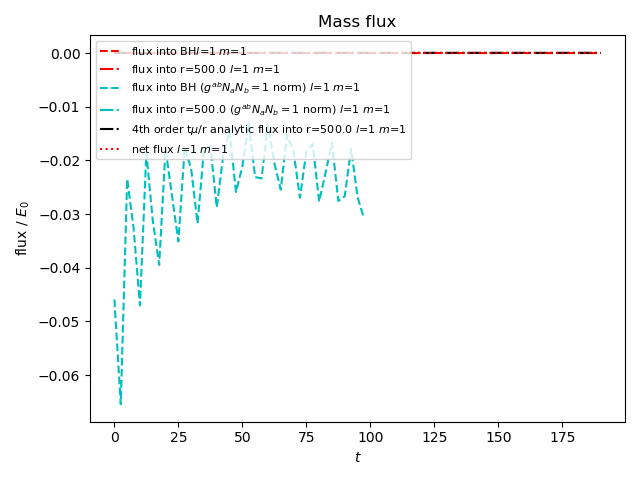
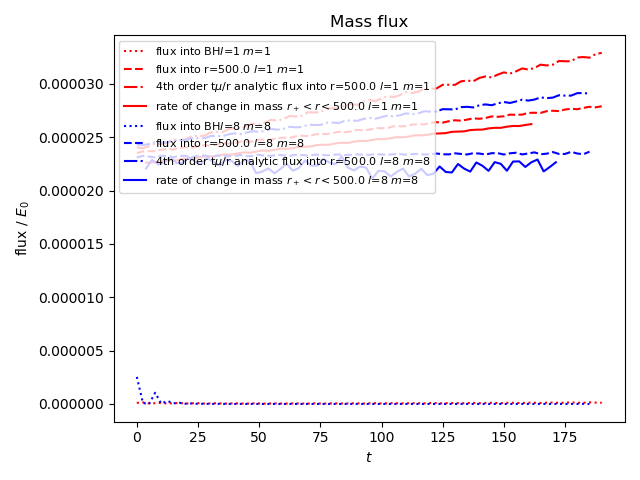
new plot

diff --git a/Analysis/scripts/plot_mass_flux_KS.py b/Analysis/scripts/plot_mass_flux_KS.py
@@ -41,7 +41,7 @@ cos2theta_integrals = [[-(1/3)],[1/5,-(3/5)],[1/21,-(1/7),-(5/7)],\
 def analytic_flux(t, r, l, m, a, mu, cumulative):	
 	## calculate the perturbative flux at large radius to order 
 	cos2theta = cos2theta_integrals[l][int(np.abs(m))]
-	L = l*(l+1)*(mu**2)
+	L = l*(l+1)/(mu**2)
 	tau = mu*t
 	""" #
 	Integrating factor of 
@@ -95,9 +95,9 @@ def time_average(x, n):
 #add_data_dir(104, 1, 1, "0.0", "0.4", 64, 64, "_theta_max0.99")
 add_data_dir(105, 1, 1, "0.7", "0.4", 64, 64, "_theta_max0.99")
 #add_data_dir(106, 1, 1, "0.99", "0.4", 64, 64, "_theta_max0.99")
-add_data_dir(107, 2, 2, "0.7", "0.4", 64, 64, "_theta_max0.99")
-add_data_dir(108, 4, 4, "0.7", "0.4", 64, 64, "_theta_max0.99")
-add_data_dir(109, 1, -1, "0.7", "0.4", 64, 64, "_theta_max0.99")
+#add_data_dir(107, 2, 2, "0.7", "0.4", 64, 64, "_theta_max0.99")
+#add_data_dir(108, 4, 4, "0.7", "0.4", 64, 64, "_theta_max0.99")
+#add_data_dir(109, 1, -1, "0.7", "0.4", 64, 64, "_theta_max0.99")
 add_data_dir(110, 8, 8, "0.7", "0.4", 64, 64, "_theta_max0.99")
 #add_data_dir(111, 0, 0, "0.0", "0.05", 64, 64, "_theta_max0.99")
 #add_data_dir(112, 1, 1, "0.7", "0.2", 64, 64, "_theta_max0.99")
@@ -117,7 +117,7 @@ r_max = 500
 average_time = False
 av_n = 1
 cumulative=False
-plot_mass=False
+plot_mass=True
 
 def load_flux_data():
 	# load data from csv files
@@ -168,24 +168,30 @@ def plot_graph():
 			inner_mass_flux = np.cumsum(inner_mass_flux)*dt
 			outer_mass_flux = np.cumsum(outer_mass_flux)*dt
 			analytic_outer_flux = analytic_flux(tflux, r_max, dd.l, dd.m, dd.a, mu, True)*(4*np.pi)*phi0**2/(E0)
-			ax1.plot(tflux,tflux*(r_max-2)*(mu**2)*(4*np.pi)*phi0**2/(E0),color="0.5",linestyle="dashed",label="$t(r_{max}-2)\\mu^2 4\\pi \\varphi^2_0$")
+			#ax1.plot(tflux,tflux*(r_max-2)*(mu**2)*(4*np.pi)*phi0**2/(E0),color="0.5",linestyle="dashed",label="$t(r_{max}-2)\\mu^2 4\\pi \\varphi^2_0$")
 		elif not cumulative:
 			analytic_outer_flux = analytic_flux(tflux, r_max, dd.l, dd.m, dd.a, mu, False)*(4*np.pi)*phi0**2/(E0)
 		net_flux = outer_mass_flux - inner_mass_flux
 		#label_ = "$\\mu$={:.2f}".format(mu)
 		label_ = "$l$={:d} $m$={:d}".format(dd.l, dd.m)
-		ax1.plot(tflux,inner_mass_flux,colours[i]+"--", label="flux into BH"+label_)# r={:.1f} ".format(r_min)+label_)
-		ax1.plot(tflux,outer_mass_flux,colours[i]+"-.", label="flux into r={:.1f} ".format(r_max)+label_)
-		ax1.plot(tflux,analytic_outer_flux,colours2[i]+"-.", label="4th order t$\\mu$/r analytic flux into r={:.1f} ".format(r_max)+label_) #+" times 4$\\pi$")
-		ax1.plot(tflux,net_flux,colours[i]+":", label="net flux " + label_)
+		ax1.plot(tflux,inner_mass_flux,colours[i]+":", label="flux into BH"+label_)# r={:.1f} ".format(r_min)+label_)
+		ax1.plot(tflux,outer_mass_flux,colours[i]+"--", label="flux into r={:.1f} ".format(r_max)+label_)
+		ax1.plot(tflux,analytic_outer_flux,colours[i]+"-.", label="4th order t$\\mu$/r analytic flux into r={:.1f} ".format(r_max)+label_) #+" times 4$\\pi$")
+		#ax1.plot(tflux,net_flux,colours[i]+":", label="net flux " + label_)
 		#
 		if plot_mass:
 			mass_line_data = mass_data[dd.num]
 			#print(mass_line_data[0:,1])
-			delta_mass = mass_line_data[1:,1] - mass_line_data[0,1]
+			delta_mass = (mass_line_data[1:,1] - mass_line_data[0,1])/E0
 			tmass = mass_line_data[1:,0]
 			#ax1.plot(tmass,delta_mass/E0,colours[i]+"-", label="change in mass {:.1f}$<r<${:.1f} ".format(r_min,r_max)+label_)
-			ax1.plot(tmass,delta_mass/E0,colours[i]+"-", label="change in mass $r_+<r<${:.1f} ".format(r_max)+label_)
+			if cumulative:
+				ax1.plot(tmass,delta_mass,colours[i]+"-", label="change in mass $r_+<r<${:.1f} ".format(r_max)+label_)
+			elif not cumulative:
+				dt = tmass[1] - tmass[0]
+				tmass_mean = 0.5*(tmass[1:]+tmass[:-1])
+				dmass_dt = (delta_mass[1:] - delta_mass[0:-1])/dt
+				ax1.plot(tmass_mean,dmass_dt,colours[i]+"-", label="rate of change in mass $r_+<r<${:.1f} ".format(r_max)+label_)
 		i = i + 1
 	ax1.set_xlabel("$t$")
 	#ax1.set_xlim((0, 300))
@@ -198,8 +204,8 @@ def plot_graph():
 	else:
 		ax1.set_ylabel("flux / $E_0$")
 		plt.title("Mass flux")
-		save_path = home_path + "plots/mass_flux_Kerr_Schild_run0105_r_plus_to_500.png"
-	ax1.legend(loc='upper left', fontsize=8)
+		save_path = home_path + "plots/mass_flux_Kerr_Schild_compare_lm_r_plus_to_500.png"
+	ax1.legend(loc='best', fontsize=7)
 	plt.tight_layout()
 	plt.savefig(save_path)
 	print("saved plot as " + str(save_path))
